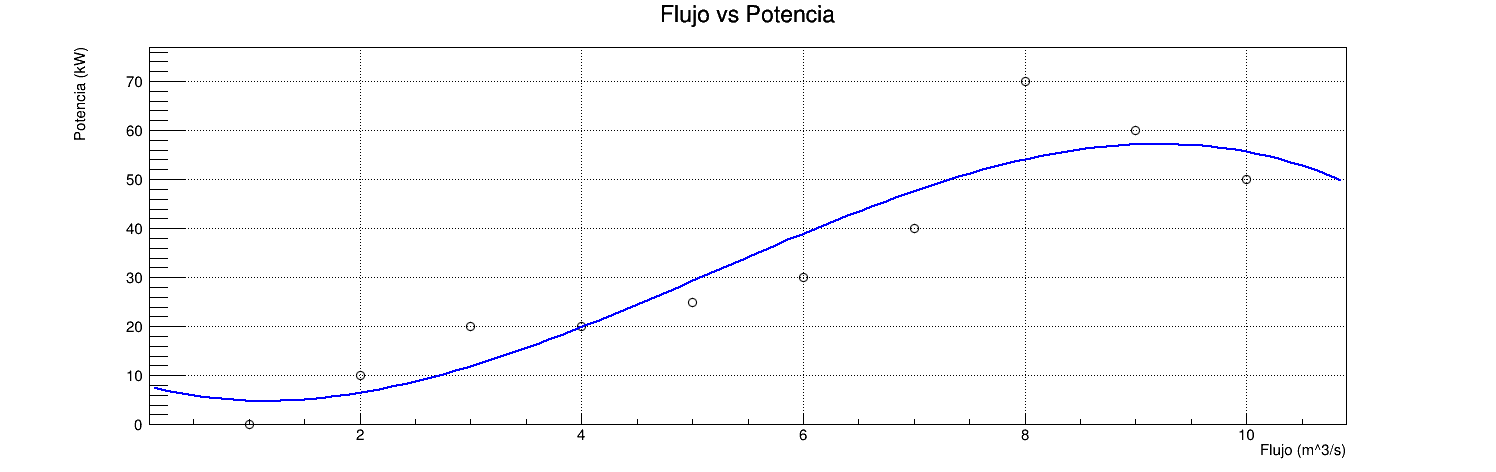
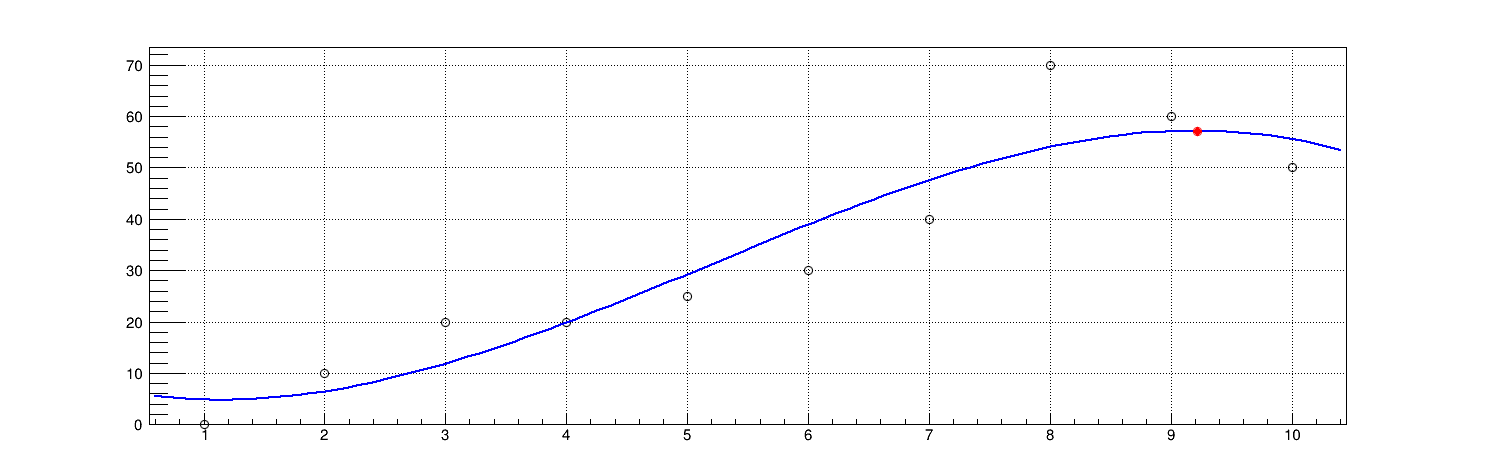
Find the maximum in the interpolation

diff --git a/generate_report/src/plotter.C b/generate_report/src/plotter.C
@@ -4,6 +4,7 @@
 #include "TROOT.h"
 #include "TF1.h"
 #include <TGraph.h>
+#include <TMultiGraph.h>
 
 #include <iostream>
 #include <fstream>
@@ -11,7 +12,7 @@
 
 
 
-Double_t *graph_generator(const char *title, int n, double *x, double *y, const char *path){
+double graph_generator(const char *title, int n, double *x, double *y, const char *path){
 
     TCanvas *c = new TCanvas("c", "Dynamic Filling Example", 200, 10, 1500, 500);
     c->SetGrid(); // Activate the grid
@@ -23,23 +24,34 @@ Double_t *graph_generator(const char *title, int n, double *x, double *y, const 
     graph->SetMarkerStyle(kOpenCircle);
     graph->SetMarkerColor(kBlack);
     // Define the way the graph is going to be plotted
-    graph->Draw("AP");
+    // graph->Draw("AP");
 
-    TF1 *fitFunction = new TF1("fitFunction", "pol3", 0, 200);
-
+    TF1 *fitFunction = new TF1("fitFunction", "pol3", 0, x[n-1]); // (func name, func type, (range))
     // Modify line
     fitFunction->SetLineColor(kBlue);
     
     // Perform the fit
     graph->Fit(fitFunction, "Q"); // quiet mode
+    double maximumY = fitFunction->GetMaximum(); // Find the maximum
+    double maximumX = fitFunction->GetMaximumX();
+
+    auto graph2 = new TGraph();
+    graph2->SetPoint(0, maximumX, maximumY);
+    graph2->SetMarkerColor(kRed);
+    graph2->SetMarkerStyle(kFullCircle);
+
+    auto mg = new TMultiGraph();
+    mg->Add(graph);
+    mg->Add(graph2);
+    mg->Draw("AP");
 
     // Extract the equation
-    TF1 *myfunc = graph->GetFunction("fitFunction");
-    Double_t *parameters = myfunc->GetParameters();
+    // TF1 *myfunc = graph->GetFunction("fitFunction");
+    // Double_t *parameters = myfunc->GetParameters(); // Get coefficients from the function
 
     c->Print(path);
 
-    return parameters;
+    return maximumY;
 }
 
 
@@ -77,14 +89,17 @@ void plotter(){
     int n = 10;
     const char* title1 = "Flujo vs Potencia;Flujo (m^3/s);Potencia (kW)";
     const char* path1 = "../data/imgs/FlowVsPower.png";
-    Double_t *parameters = graph_generator(title1, n, flow, pump_power, path1);
+    double maximum = graph_generator(title1, n, flow, pump_power, path1);
+    std::cout << maximum << std::endl;
 
     const char* title2 = "Flujo vs Cabeza;Flujo (m^3/s); Cabeza (m)";
     const char* path2 = "../data/imgs/FlowVsHead.png";
-    Double_t *parameters2 = graph_generator(title1, n, flow, head, path2);
+    maximum = graph_generator(title1, n, flow, head, path2);
+    std::cout << maximum << std::endl;
 
     const char* title3 = "Flujo vs Eficiencia;Flujo (m^3/s); Eficiencia (%)";
     const char* path3 = "../data/imgs/FlowVsEfficiency.png";
-    Double_t *parameters3 = graph_generator(title1, n, flow, efficiency, path3);
+    maximum = graph_generator(title1, n, flow, efficiency, path3);
+    std::cout << maximum << std::endl;
 }
 

diff --git a/generate_report/src/generate_pdf.cpp b/generate_report/src/generate_pdf.cpp
@@ -9,8 +9,6 @@ void generate_pdf(long test_number){
 
     wkhtmltopdf_init(false);
 
-   
-
     wkhtmltopdf_global_settings* gs = wkhtmltopdf_create_global_settings();
     wkhtmltopdf_object_settings* os = wkhtmltopdf_create_object_settings();
 
